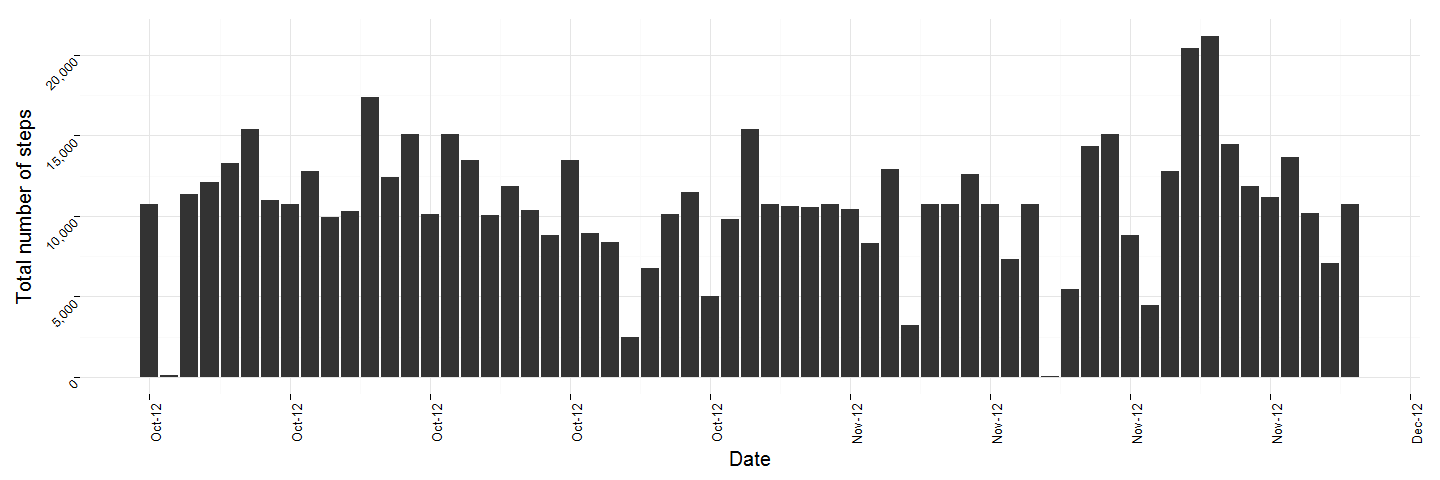
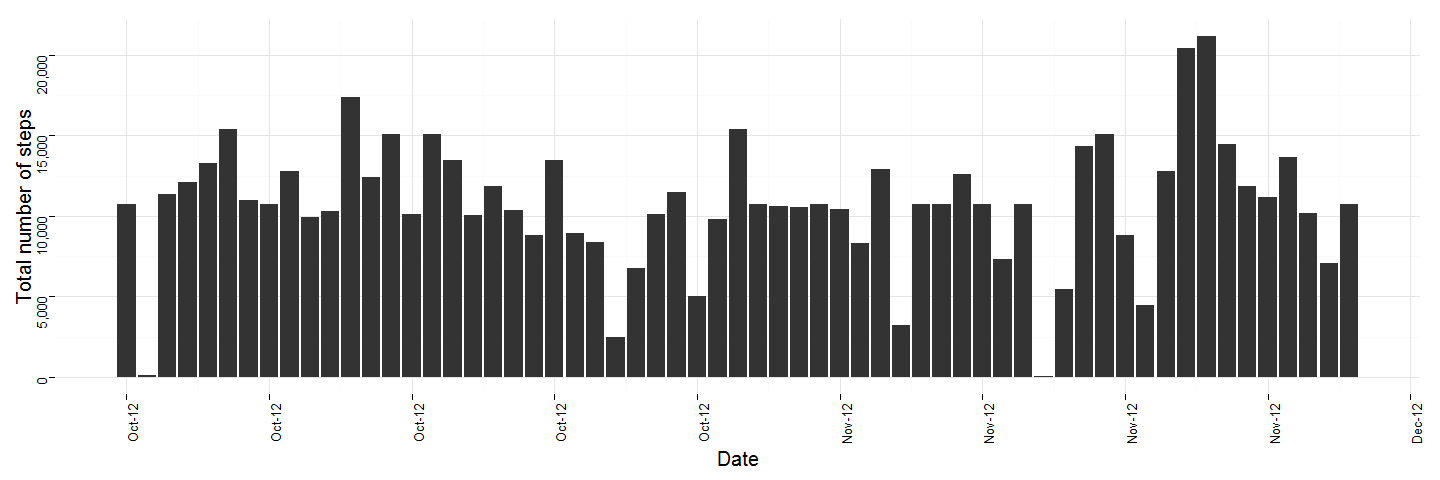
corrected graph

diff --git a/PA1_template.html b/PA1_template.html
@@ -178,7 +178,6 @@ print(paste(&quot;Number of NAs in filled array: &quot;,format(length(which(is.n
 <pre class="r"><code>sumfill = aggregate(fill$steps, list(fill$date), sum, na.rm=TRUE)
 colnames(sumfill) = c(&quot;date&quot;,&quot;steps&quot;)
 
-
 ggplot(sumfill, aes(sumfill$date,sumfill$steps)) + 
        geom_histogram(stat=&quot;identity&quot;)  + scale_x_date(&quot;Date&quot;, 
                labels = date_format(&quot;%b-%y&quot;), 
@@ -187,9 +186,9 @@ ggplot(sumfill, aes(sumfill$date,sumfill$steps)) +
                      labels = comma) +xlab(&quot;Date&quot;) +
   theme_minimal() +
        theme(axis.text.x = element_text(size=10,angle=90,colour=&quot;black&quot;,vjust=1,hjust=1))+
-       theme(axis.text.y = element_text(size=10,angle=45,colour=&quot;black&quot;,vjust=1,hjust=1))+
+       theme(axis.text.y = element_text(size=10,angle=90,colour=&quot;black&quot;,vjust=1,hjust=1))+
        theme(axis.title  = element_text(size=15))</code></pre>
[2 lines of base64/hex data omitted]
 </div>
 <div id="b.-calculate-and-report-the-mean-and-median-total-number-of-steps-taken-per-day." class="section level4">
 <h4>4b. Calculate and report the mean and median total number of steps taken per day.</h4>

diff --git a/PA1_template.md b/PA1_template.md
@@ -180,7 +180,6 @@ print(paste("Number of NAs in filled array: ",format(length(which(is.na(fill$ste
 sumfill = aggregate(fill$steps, list(fill$date), sum, na.rm=TRUE)
 colnames(sumfill) = c("date","steps")
 
-
 ggplot(sumfill, aes(sumfill$date,sumfill$steps)) + 
        geom_histogram(stat="identity")  + scale_x_date("Date", 
                labels = date_format("%b-%y"), 
@@ -189,7 +188,7 @@ ggplot(sumfill, aes(sumfill$date,sumfill$steps)) +
                      labels = comma) +xlab("Date") +
   theme_minimal() +
        theme(axis.text.x = element_text(size=10,angle=90,colour="black",vjust=1,hjust=1))+
-       theme(axis.text.y = element_text(size=10,angle=45,colour="black",vjust=1,hjust=1))+
+       theme(axis.text.y = element_text(size=10,angle=90,colour="black",vjust=1,hjust=1))+
        theme(axis.title  = element_text(size=15))
 ```
 
